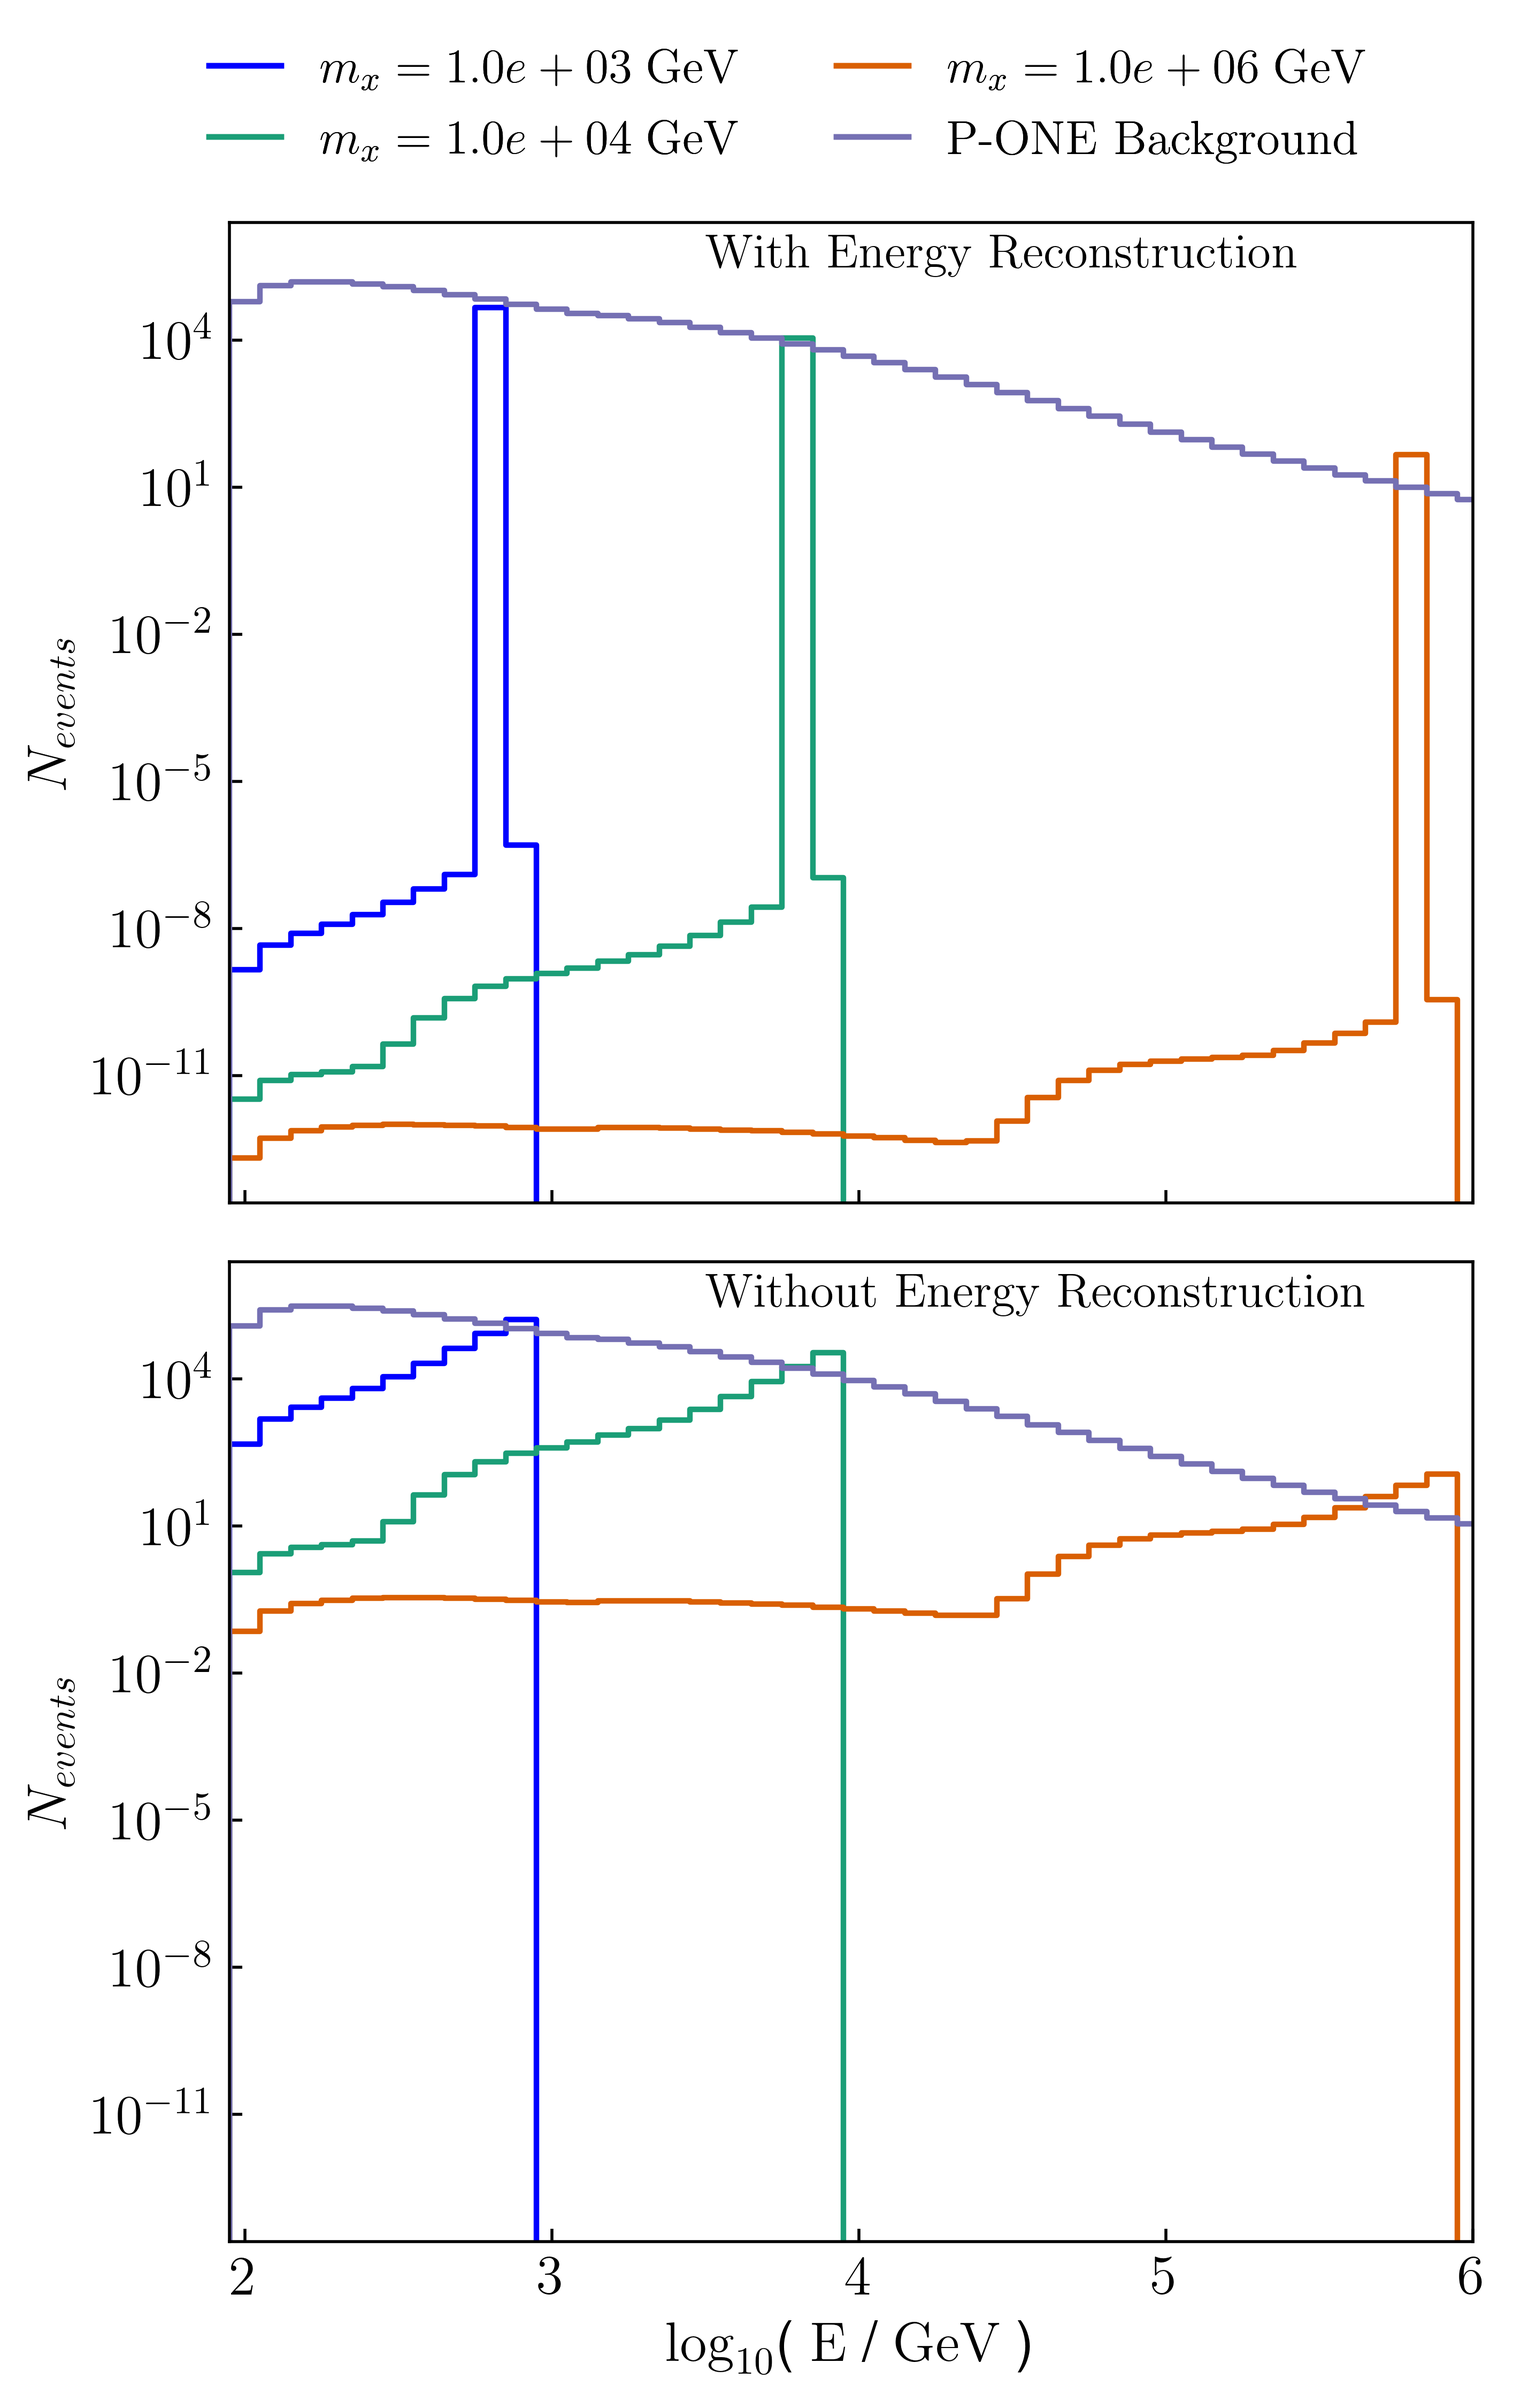
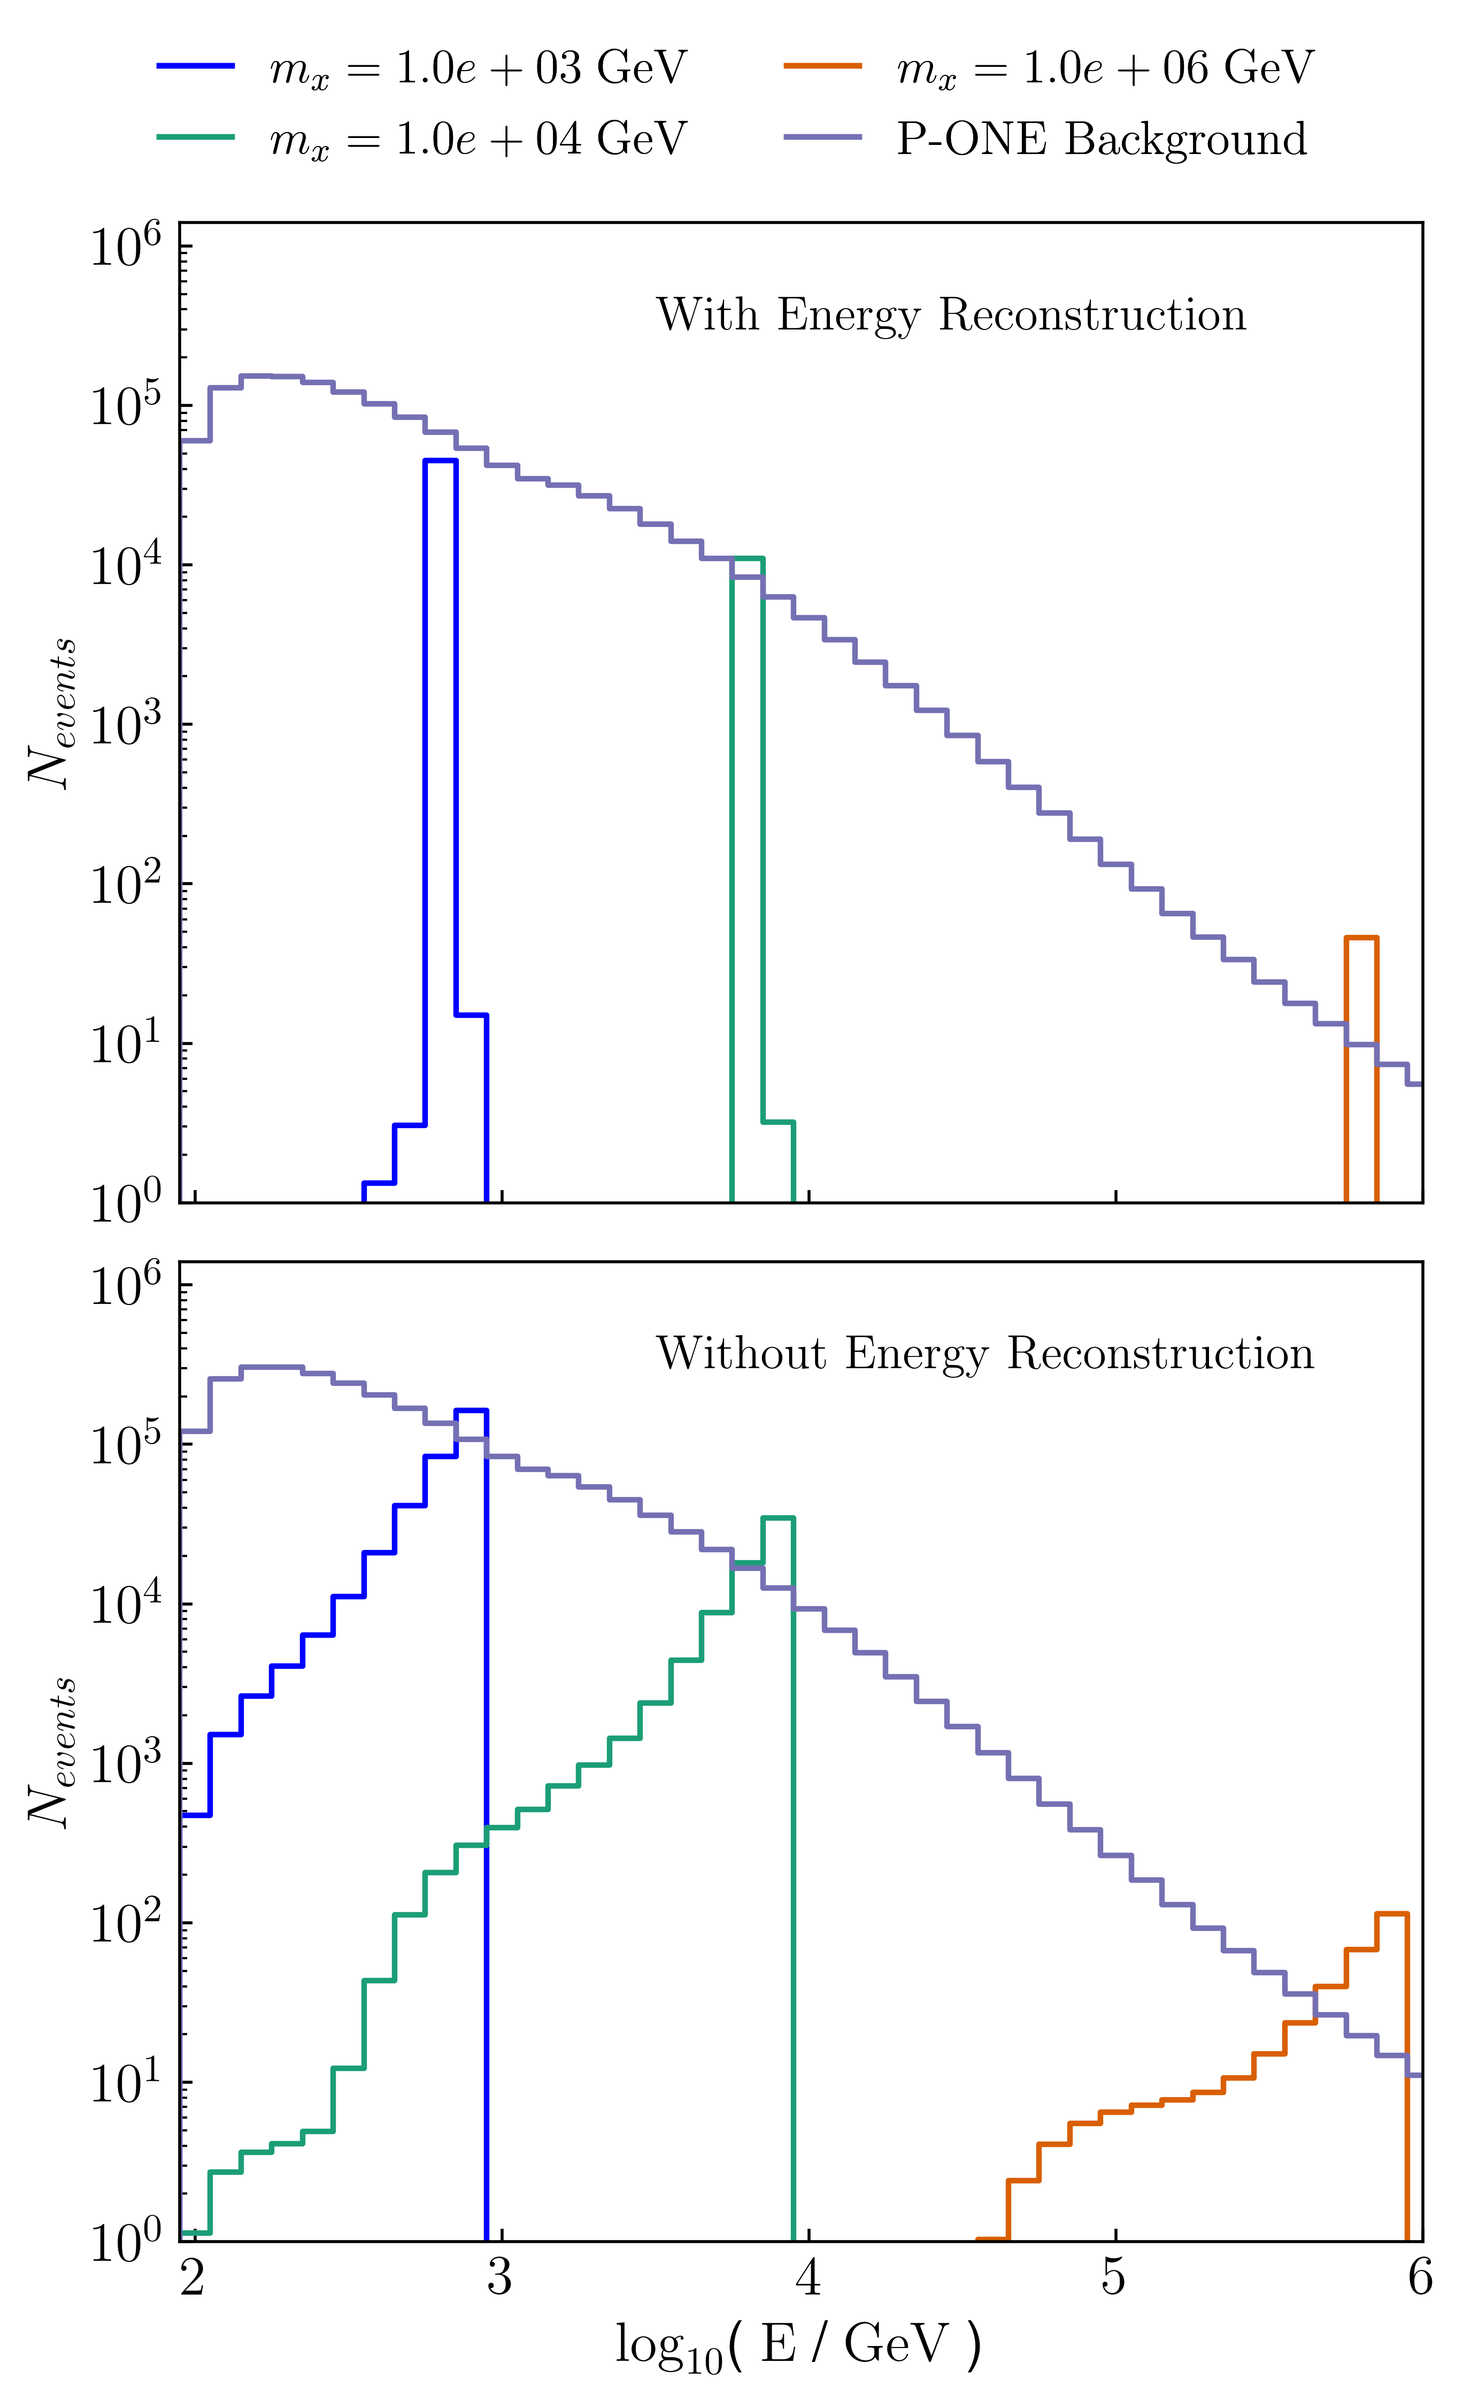
added new sigma and dsigma func,units check

diff --git a/pone_dm/dm2nu.py b/pone_dm/dm2nu.py
@@ -34,6 +34,8 @@ class DM2Nu(object):
         self.omega_L = self._const.omega_L
         self.omega_r = self._const.omega_r
         self._d_constructor()
+        self._sigma = self._sigma_lopez_ # self._sigma_lopez_
+        self._dln_sigma_1 = self._dln_sigma_1_ibarra
         self.nu_e = pd.read_csv(open('../data/Li_project/nu_e.dat', 'rb'),
                                 delim_whitespace=True)
         if config['general']['density'] == 'Burlket':
@@ -44,9 +46,10 @@ class DM2Nu(object):
         if config['general']["channel"] != 'All':
             # self._channel = "\[Tau]"
             self.m_keys = Counter(self.nu_e['mDM'].values).keys()
-            config['simulation parameters']['mass grid'] = np.array([i for i in self.m_keys])
-                #[100, 240, 500, 700, 900, 1e3, 2.5e3, 5e3, 7e3, 1e4, 2e4, 3e4,
-                # 5e4, 1e5])
+            config['simulation parameters']['mass grid'] = np.array([
+                i for i in self.m_keys])
+            # [100, 240, 500, 700, 900, 1e3, 2.5e3, 5e3, 7e3, 1e4, 2e4, 3e4,
+            # 5e4, 1e5])
 
     def galactic_flux(self, E,
                       m_x: float, sv: float,
@@ -60,7 +63,7 @@ class DM2Nu(object):
         """
         return self._dphi_dE_g(
             sv, k, m_x, E, J
-        ) 
+        )
         # need to check which one
 
     def galactic_flux_c(self, E,
@@ -129,7 +132,7 @@ class DM2Nu(object):
         ----------
         m_x : float
             The DM mass
-        E 
+        E
             The energies of interest
         Returns
         -------
@@ -183,7 +186,7 @@ class DM2Nu(object):
         ----------
         m_x : float
             The DM mass
-        E 
+        E
             The energies of interest
         Returns
         -------
@@ -249,7 +252,7 @@ class DM2Nu(object):
 
 # Lpoez ------------------------------------------------------------------
 
-    def _sigma_lopez(self, M: float):
+    def _sigma_lopez_(self, M: float):
         """ returns
         sigma_lopez : float
         """
@@ -273,7 +276,7 @@ class DM2Nu(object):
         )
         gamma = self._const.gamma
         sigma = (
-            self._sigma_lopez(M) *
+            self._sigma(M) *
             self._d(z)
         )
         return (
@@ -285,7 +288,7 @@ class DM2Nu(object):
         Add description
         """
         sigma = (
-            self._sigma_lopez(M) *
+            self._sigma(M) *
             self._d(z)
         )
         # TODO: Add this to constants
@@ -318,7 +321,7 @@ class DM2Nu(object):
         d_2 = 0.060
 
         sigma = (
-            self._sigma_lopez(M) *
+            self._sigma(M) *
             self._d(z)
         )
 
@@ -378,7 +381,7 @@ class DM2Nu(object):
         d_2 = 0.060
 
         sigma = (
-            self._sigma_lopez(M) *
+            self._sigma(M) *
             self._d(z)
         )
 
@@ -419,11 +422,28 @@ class DM2Nu(object):
         c_arr[c_arr > 100] = 100
         return c_arr
 
-    def _lnsigma_1(self, M: float):
+    def sigma_prada(self, M):
+        y = 1e12 / M  # prada et.al. definition
+        sigma = ((16.9 * y**(0.41)) /
+                 (1 + (1.102*y**(0.2))) + (6.22*y**(0.333)))
+        return sigma
+
+    def _dln_sigma_1_ibarra(self, M):
+        y = M / 1e12
+        # sigma = self.sigma_prada(M, z)
+        # lnsigm_inv = np.log(sigma**(-1))
+        dlnsigma_dm_1e12 = (((-6.929 * y**0.2 - 3.911) /
+                            (((y**0.2 + 1.102)**2) * y**1.21)) -
+                            (2.07126 / y**1.333))
+
+        dlnsigma_inv_dm = -dlnsigma_dm_1e12 / 1e12
+        return dlnsigma_inv_dm
+
+    def _lnsigma_1_lopez(self, M: float):
         lnsigma_1 = (0.2506 * (M)**(0.07536)) - (2.6 * (M)**(0.001745))
         return lnsigma_1
 
-    def _dln_sigma_1(self, M: float):
+    def _dln_sigma_1_lopez(self, M: float):
         """returns:
         dln(sigma)/dM : Float
         """
@@ -431,6 +451,51 @@ class DM2Nu(object):
             0.2506 * 0.07536 * M**(0.07536 - 1) -
             2.6 * 0.001745 * M**(0.001745 - 1)
         )
+
+    def _g_tild_ibarra(self, M, z):
+        a = 0.520 + ((0.905-0.520) * np.exp(-0.617 * z**1.21))
+        b = (0.026 * z) - 0.101
+        c_arr = np.exp(a + (b * np.log10(M)))
+
+        return ((c_arr**3) * (1 - (1 + c_arr)**(-3)) /
+                (3 * (np.log(1 + c_arr) - c_arr * (1 + c_arr)**(-1)))**2)
+
+    def G_ibarra(self, z):
+        """returns
+        G_lopez : numpy array
+        """
+        def integrand(M):
+            return (
+                    self._dln_sigma_1(M) *
+                    self._f_delta(M, z, Delta=self._const.Delta) *
+                    self._g_tild_ibarra(M, z)
+                    )
+
+        aa = (
+            ((self.omega_m*(1+z)**3 + self.omega_L + self.omega_r*(1+z)**4) *
+             self._const.Delta) /
+            (3 * self._const.omega_DM * (1+z)**3))
+        # ------ Here the dNdlogx should be included in the
+        # integrand for W, b chanels ----- 19.04.22
+        # Using splines to integrate
+        M_host = np.array(config["advanced"]["integration grid lopez"])
+        b_quad = quad(integrand, M_host[0], M_host[-1])[0]
+        
+        function_vals = np.array([
+            integrand(M)
+            for M in config["advanced"]["integration grid lopez"]
+        ])
+        bb = np.trapz(
+            function_vals,
+            x=config["advanced"]["integration grid lopez"],
+            axis=0
+        )
+        # bb = (
+        #     quad(integrand, 1e-2, 1e1)[0] +
+        #     quad(integrand, 1e1, 1e10)[0] +
+        #     quad(integrand, 1e10, 1e17)[0]_dphi_de_c
+        # )
+        return aa * b_quad, function_vals
 
     def _G_lopez(self, z: float):
         """returns
@@ -464,7 +529,7 @@ class DM2Nu(object):
         #     quad(integrand, 1e1, 1e10)[0] +
         #     quad(integrand, 1e10, 1e17)[0]_dphi_de_c
         # )
-        return aa * bb
+        return aa * bb, function_vals
 
     def _dphide_lopez(self, E, m_x: float, snu: float):
         """ returns
@@ -473,26 +538,21 @@ class DM2Nu(object):
         z = m_x / E - 1  # To apply the delta function integral
         z_tmp = z[z > 0]
 
-        G = ((1 + self._G_lopez(z_tmp)) * self._const.rho_c**2)
-        # ( np.array(B) +
-        # G = (np.array([self.B_nfw(z_)[0] for z_ in z_tmp]) *
-        #    (self._const.rho_c)**2)
-        # print(z_tmp, np.array(B) / np.array([self.B_nfw(z_)
-        # for z_ in z_tmp]))
-        #      self._const.rho_c**2))
-        a_G = (
-            G *
-            (1 + z_tmp)**3
-        )
+        G = ((1 + self._G_lopez(z_tmp)[0]) *
+             (1 + z_tmp)**3)
 
         # multiplide the H_0 ------
         H_z = (self._H(self._a_z(z_tmp), self._const.H_0) *
                self._const.H_0)
 
-        a_g = a_G / H_z
-        aaa = snu * self._const.omega_DM
+        a_g = G / H_z
+
+        aaa = snu * self._const.omega_DM * self._const.rho_c**2
+
         b = 8 * np.pi * m_x**2
-        res = 2 * aaa * a_g / (3 * E[E < m_x] * b)
+
+        res = 2 * aaa * a_g * (z_tmp + 1) / (3 * m_x * b)
+
         # the factor of 2 for
         # annihiliation to 2 neutrino
 
@@ -612,7 +672,7 @@ class DM2Nu(object):
         1-axis= Z
         """
         sigma = (
-            self._sigma_lopez(M) *
+            self._sigma(M) *
             self._d(Z)
         )
         c = 0.522 * ((1 + 7.37 * (sigma / 0.95)**(3/4)) *
@@ -909,7 +969,7 @@ class DM2Nu(object):
 
     def _peak_height(self, M, z):
         sigma = (
-            self._sigma_lopez(M) *
+            self._sigma(M) *
             self._d(z)
         )
         delta_c = self._const.delta_c

diff --git a/pone_dm/constants.py b/pone_dm/constants.py
@@ -14,10 +14,12 @@ class pdm_constants(object):
     def __init__(self):
         # ----------------------------------------------------------------------
         # '# ##' == used in the simulation code----
-
-        #self.rho_c = 2.7754e11  # h^-2 M_0 Mpc^-3------> Mpc!!!!!
-        #self.rho_c = self.rho_c * (1.9e30 * 1.78e-27**(-1)) * (3.086e24)**(-3)
-        self.rho_c = 5.5e-6  # GeV cm^-3 ----------------------- !!!!!!!
+        self.h = 0.71
+        self.H_0 = 100 * self.h  # h km s^-1 Mpc^-1 hubble time --- # ##
+        self.H_0 = self.H_0 * 1e5 / 3.086e24  # h s^-1 ## Mpc->cm km-»cm
+        # self.rho_c = 2.7754e11 * self.h**2  # M_0 Mpc^-3------> Mpc!!!!!
+        # self.rho_c = self.rho_c * (1.9e30 * 1.78e-27**(-1)) * (3.086e24)**(-3)
+        self.rho_c = 1.053e-5 * self.h**2  # GeV cm^-3 ----------------------- !!!!!!!
         self.gamma = 1.3186  # NFW parameter --- slope parameter -----  # ##
         self._kappa = 2
         # ----------------------------------------------------------------------
@@ -41,12 +43,10 @@ class pdm_constants(object):
         self.J_p = 2.2e17  # ##
         self.J_d = 3.6e11  # ##
         # ----------------------------------------------------------------------
-        self.h = 0.71
-        self.H_0 = 100 * self.h  # h km s^-1 Mpc^-1 hubble time --- # ##
-        self.H_0 = self.H_0 * 1e5 * 1e-24 / 3.086  # h s^-1 ## Mpc->cm km-»cm
+          
 
-        self.G_N = 6.67e-11  # m^3 kg^-1 s^-1
-        self.G_N = self.G_N * 1e6 * 1e-22 / 1.78  # cm^3 (GeV/c^2)^-1 s^-1 ## m->cm kg->GeV/c^2
+        #self.G_N = 6.67e-11  # m^3 kg^-1 s^-1
+        #self.G_N = self.G_N * 1e6 * 1e-22 / 1.78  # cm^3 (GeV/c^2)^-1 s^-1 ## m->cm kg->GeV/c^2
         #self.rho_c = (3 * self.H_0**2) / (8 * np.pi * self.G_N)
 
         self._omega_m = 0.27   # ##
